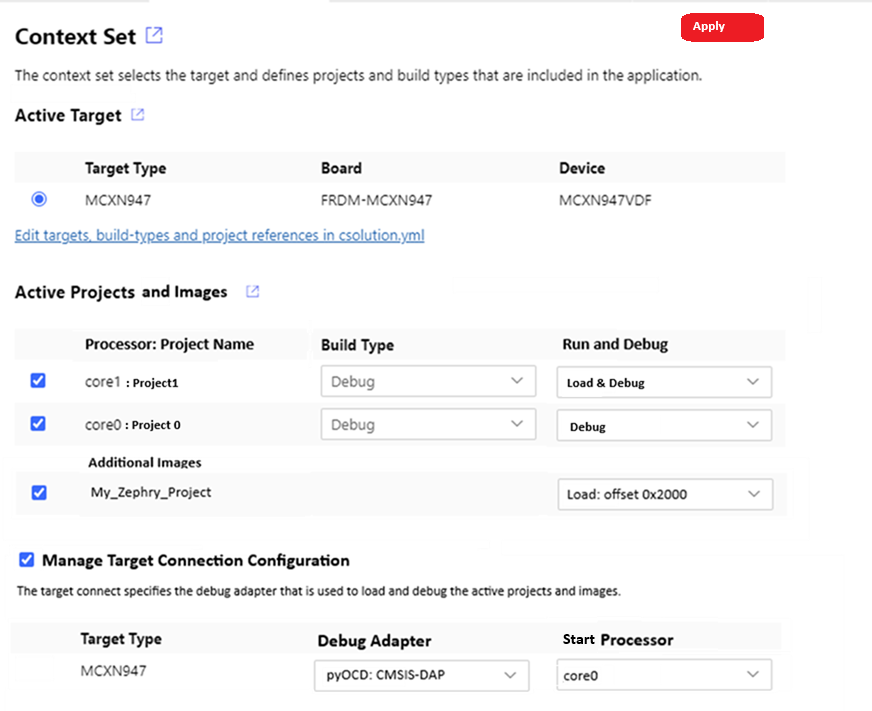
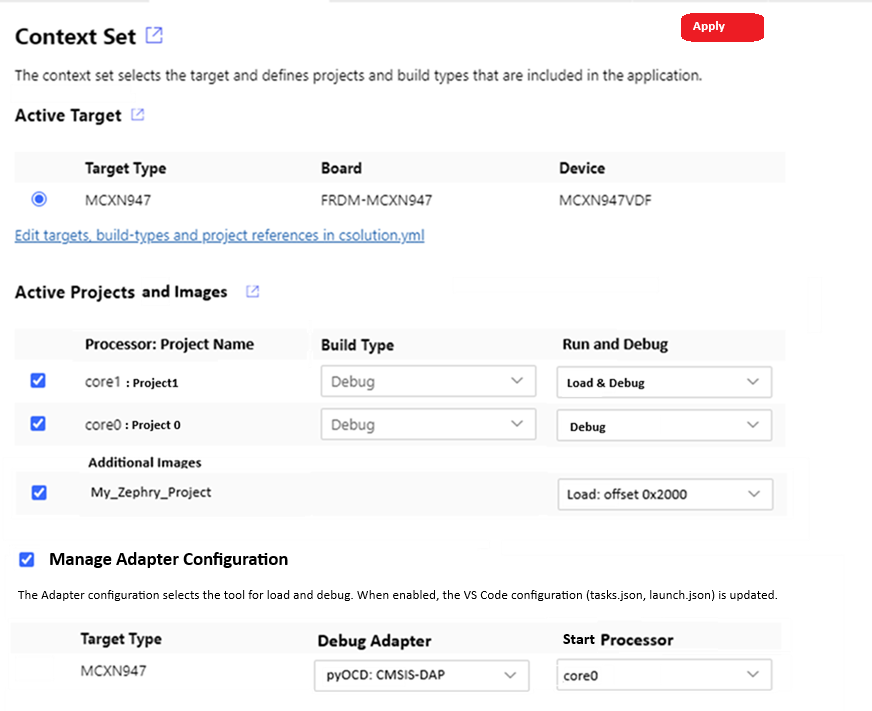
Clarifications in CMSIS-DebuggerIntegration.md

Changed region(s): [[0.0, 0.7736, 0.867, 0.8664]]

diff --git a/docs/CMSIS-DebuggerIntegration.md b/docs/CMSIS-DebuggerIntegration.md
@@ -17,11 +17,11 @@ The Context Set dialog is extended as shown below.
 
 ### Changes
 
-- **Apply** makes the dialog stateful (similar to new Components/Packs dialog).
+- **Apply** makes the dialog stateful (similar to new Components/Packs dialog). It triggers the update of `launch.json` and `tasks.json`.
 
 ### Active Projects and Images
 
-- **Processor:** is added for projects that contain a `pname` selection.
+- **Processor:** is only shown for projects that contain a `pname` selection.
     - `cbuild-idx.yml` and `cbuild.yml` should be extended with `pname:` information.
   
 - **Run and Debug** allows to select how the project is used (setting is in `cbuild-set.yml` file)
@@ -31,13 +31,27 @@ The Context Set dialog is extended as shown below.
     - Offset can be specified in the `cproject.yml` file or for images in the `csolution.yml` file.
     - **Additional Images** shows additional image files that are specified in `csolution.yml` using [`load:`](YML-Input-Format.md#load).
 
-### Manage Target Connection Configuration
+### Manage Adapter Configuration
+
+The checkbox before **Manage Adapter Configuration** is a CMSIS Solution Setting that is also exposed in the Settings dialog with:
+
+```txt
+**Cmsis-csoluion: Manage Adapter Configuration**
+
+[x] Update VS Code launch.json and task.json configuration files with the debug adapter selection in the Context Set dialog.
+```
+
+Note: only the active target is reflected in launch.json and tasks.json.
+
+The list below shows the selected tool for each target in the csolution project.  This selection is stored in the *.csolution.yml* file as it is also valid for command line usage of pyOCD.
 
 - **Target Type** lists all target types of the csolution.
 - **Debug Adapter** is a selection from `adapters.yml` (see below).  If cbuild-xxx.yml contains a debugger name, this debugger is the pre-selected (default).
-- **Start Processor** is only added for projects that contain a `pname` selection. It allows to choose a `pname:`. Default is `pname' of the first project.
+- **Start Processor** is only shown for projects that contain a `pname` selection. It allows to choose a `pname:`. Default is `pname' of the first project.
 
-Add in `arm.cmsis-csolution-xxx` directory a sub-directory with the name `.\adapters`.  This directory contain a file `adapters.yml` along with template files for updating `launch.json` and `tasks.json`.  It defines the configuration for the CMSIS-View `Run` and `Debug` button and specifies the templates that are used to inject content in the related files.
+#### launch.json and tasks.json update process
+
+The `arm.cmsis-csolution-xxx` directory (where the VS Code CMSIS Solution extension is stored) gets a sub-directory with the name `.\adapters`.  This directory contain a file `adapters.yml` along with template files for updating `launch.json` and `tasks.json`.  It defines the configuration for the CMSIS-View `Run` and `Debug` button and specifies the templates that are used to inject content in the related files.
 
 - The file `./.vscode/launch.json` is updated for VS Code Debugger (replaced are sections with same type).
 - The file `./.vscode/tasks.json` is updated external debuggers / tools.
@@ -47,33 +61,30 @@ Add in `arm.cmsis-csolution-xxx` directory a sub-directory with the name `.\adap
 ```yml
 adapters:
   name: "pyOCD: CMSIS-DAP"
-  short: pyOCD                           # short name
-  run: pyOCD-CMSIS-DAP.launch.json       # template for run
-  debug: pyOCD-CMSIS-DAP.launch.json     # template for debug
+  short: pyOCD                              # short name
+  template: pyOCD-CMSIS-DAP.adapter.json    # template file
 
   name: "JLink Server"
-  short: JLink                           # short name
-  run: jlink.launch.json                 # template for run
-  debug: jlink.launch.json               # template for debug
+  short: JLink                              # short name
+  template: jlink.adapter.json              # template file
 
   name: "AVH-FVP"
   short: "FVP"
-  run: FVP.tasks.json                    # template for run
-  debug:                                 # debug not possible (button is disabled)
+  template: FVP.adapter.json                # template file
 
   name: "Keil uVision"
   short: uVision
-  run: uVision.tasks.json                # template for run
-  debug: uVision.tasks.json              # template for debug
+  template: uVision.adapter.json            # template file
 ```
 
 Initially, only the features required for "pyOCD: CMSIS-DAP" could be implemented.
 
-**Template file proposal for "pyOCD: CMSIS-DAP".**
+**Template file proposal for `pyOCD-CMSIS-DAP.adapter.json`**
 
 `%<symbol>` strings are replaced with values when updating `launch.json` or `tasks.json`.
 
-- `%port` is the port number (port-default is inital value). Incremented after each insert.
+- `%port` is the port number (port-default is initial value).
+- `%port-next` is incremented before each use, and configures the various processors.
 - `%image-debug` the elf file of the project. Resolves to `<empty>` when "Debug" is inactive in Context Set.
 - `%image-load` the file that should be loaded (for AC6 the HEX file, other compilers ELF file). Resolves to `<empty>` when "Load" is inactive in Context Set.
 - `%adapter-short` the short name of the adapter.
@@ -84,80 +95,148 @@ If more than one *.cproject.yml* is assigned, `%image-debug` and `%image-load` r
 - The section `singlecore:` is used for systems that do not use `pname:` specifiers.
 - The section `multicore-xxx:` is used for systems that use `pname:` specifiers.
 
-
 ```json
     "port-default:"  3333     // start value for port (if not specified otherwise)
 
-    "singlecore":             // for single core systems
+    "launch:"                 // section for launch.json
         {
-            "name": "GDB %adapter-short"
-            "type": "gdbtarget",
-            "request": "launch",
-            "cwd": "${workspaceFolder}",
-            "program": %image-debug
-            "gdb": "arm-none-eabi-gdb",
-            "initCommands": [
-                "load %image-load"
-                "tbreak main"
-            ],
-            "target": {
+       "singlecore":          // for single core systems
+            {
+                "name": "GDB %adapter-short"
+                "type": "gdbtarget",
+                "request": "launch",
+                "cwd": "${workspaceFolder}",
+                "program": %image-debug
+                "gdb": "arm-none-eabi-gdb",
+                "initCommands": [
+                    "load %image-load"
+                    "tbreak main"
+                ],
+                "target": {
                 "server": "pyocd",
                 "port": %port
-            },
-            "cmsis": {
-                "cbuildRunFile": %{cmsis-csolution.getCbuildRunFile}
-            }
-        }
-
-    "multicore-start":        // for start processor in multi-core systems
-        {
-            "name": "%target-pname %adapter-short"
-            "type": "gdbtarget",
-            "request": "launch",
-            "cwd": "${workspaceFolder}",
-            "program": %image-debug
-            "gdb": "arm-none-eabi-gdb",
-            "initCommands": [
-                "load %image-laod"
-                "tbreak main"
-            ],
-            "target": {
+                },
+                "cmsis": {
+                    "cbuildRunFile": %{cmsis-csolution.getCbuildRunFile}
+                }
+            }, 
+            {                                       // might require also attach section
+                "name": "GDB %adapter-short"
+                "type": "gdbtarget",
+                "request": "attach",
+                "cwd": "${workspaceFolder}",
+                "program": %image-debug
+                "gdb": "arm-none-eabi-gdb",
+                "target": {
                 "server": "pyocd",
                 "port": %port
-            },
-            "cmsis": {
-                "cbuildRunFile": %{cmsis-csolution.getCbuildRunFile}
-                "pname:" %target-pname
+                },
+                "cmsis": {
+                    "cbuildRunFile": %{cmsis-csolution.getCbuildRunFile}
+                }
+            }
+
+        "multicore-start":        // for start processor in multi-core systems
+            {
+                "name": "%target-pname %adapter-short"
+                "type": "gdbtarget",
+                "request": "launch",
+                "cwd": "${workspaceFolder}",
+                "program": %image-debug
+                "gdb": "arm-none-eabi-gdb",
+                "initCommands": [
+                    "load %image-laod"
+                    "tbreak main"
+                ],
+                "target": {
+                    "server": "pyocd",
+                    "port": %port
+                },
+                "cmsis": {
+                    "cbuildRunFile": %{cmsis-csolution.getCbuildRunFile}
+                    "pname:" %target-pname
+                }
+            }
+    
+        "multicore-other:"    // added multiple times for each processors (that is not start) in multi-core systems
+                "name": "%target-pname %adapter-short"
+                "type": "gdbtarget",
+                "request": "attach",
+                "cwd": "${workspaceFolder}",
+                "program": %image-load
+                "gdb": "arm-none-eabi-gdb",
+                "initCommands": [
+                ],
+                "target": {
+                    "server": "pyocd",
+                    "port": %port-next
+                },
+                "cmsis": {
+                    "pname:" %target-pname
+                }
             }
         }
+    
+    "tasks:"                  // section to update tasks.json
+       ...                    
+```
 
-    "multicore-other:"    // for other processors in multi-core systems
-            "name": "%target-pname %adapter-short"
+With the `Apply` button, the files `tasks.json` and `launch.json` are updated. Based on the *csolution project* it results in a singlecore or multicore configuration.
+
+**launch.json: Example for multicore:**
+
+```json
+    "configurations": [
+        {
+            "name": "Core 0 (launch - pyOCD)",
             "type": "gdbtarget",
             "request": "attach",
             "cwd": "${workspaceFolder}",
-            "program": %image-debug
+            "program": "./out/core0/MCXN947/Debug/core0.axf",
             "gdb": "arm-none-eabi-gdb",
             "initCommands": [
-                "load %image-load"
+                "load ./out/core0/MCXN947/Debug/core0.hex",
+                "tbreak main"
             ],
             "target": {
                 "server": "pyocd",
-                "port": %port
+                "port": "3333"
             },
             "cmsis": {
-                "pname:" %target-pname
+                "cbuildRunFile": "DualCore+MCXN947.cbuild-run.yml",
+                "pname:" 
+            }
+        },
+        {
+            "name": "Core 1 (attach)",
+            "type": "gdbtarget",
+            "request": "attach",
+            "cwd": "${workspaceFolder}",
+            "program": "./out/core1/MCXN947/Debug/core1_image.axf",
+            "gdb": "arm-none-eabi-gdb",
+            "target": {
+                "port": "3334"
+            },
+            "cmsis": {
+                "cbuildRunFile": "DualCore+MCXN947.cbuild-run.yml",
+                "pname:" 
             }
         }
+    ]
 ```
 
-## New csolution Features
+## Multi-Workspace
+
+[Problem #156](https://github.com/Open-CMSIS-Pack/vscode-cmsis-debugger/issues/156) describes that `${workspaceFolder}` does not work in multi-workspace configurations.
+As Linux App and Cortex-M software development is supported in the same IDE, this issue should be solved.
+
+The proposal here is to replace `${workspaceFolder}` with `${cmsis-csolution.workspaceFolder}` in above scripts.
+
+### New csolution Feature
 
 Command                               | Description
 :-------------------------------------|:-----------------------------------------------------
-`cmsis-csolution.launchRequest        | Resolves one-time to string "launch" when Debug button is used, otherwise "attach".
-`cmsis-csolution.tbreakMain`          | Resolves one-time to string "tbreak main" when Debug button is used, otherwise \<empty\>.
-`cmsis-csolution.workspace`           | Resolves to workspace path of active *csolution project*. Solves [problem #156](https://github.com/Open-CMSIS-Pack/vscode-cmsis-debugger/issues/156)
+`cmsis-csolution.workspaceFolder`     | Resolves to workspace path of active *csolution project*. Solves [problem #156](https://github.com/Open-CMSIS-Pack/vscode-cmsis-debugger/issues/156)
 
 ### Test Environment for Multi-Workspace
 

diff --git a/docs/YML-CBuild-Format.md b/docs/YML-CBuild-Format.md
@@ -763,7 +763,7 @@ cbuild-run:
       :
 
   debugger:
-    - name: CMSIS-DAP
+    - name: pyOCD: CMSIS-DAP
       :
     - name: JLink
       :
@@ -1202,5 +1202,5 @@ Start gdbserver for debug connection:
 Program flash with application images:
 
 ```bash
->pyocd flash --cbuild-run MyProject+TargetHW.cbuild-run.yml
+>pyocd load --cbuild-run MyProject+TargetHW.cbuild-run.yml
 ```
